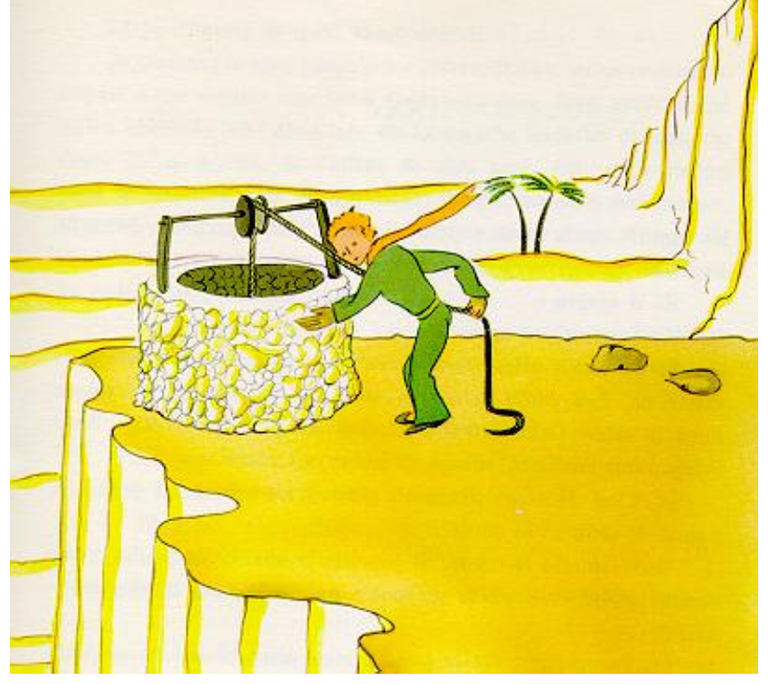
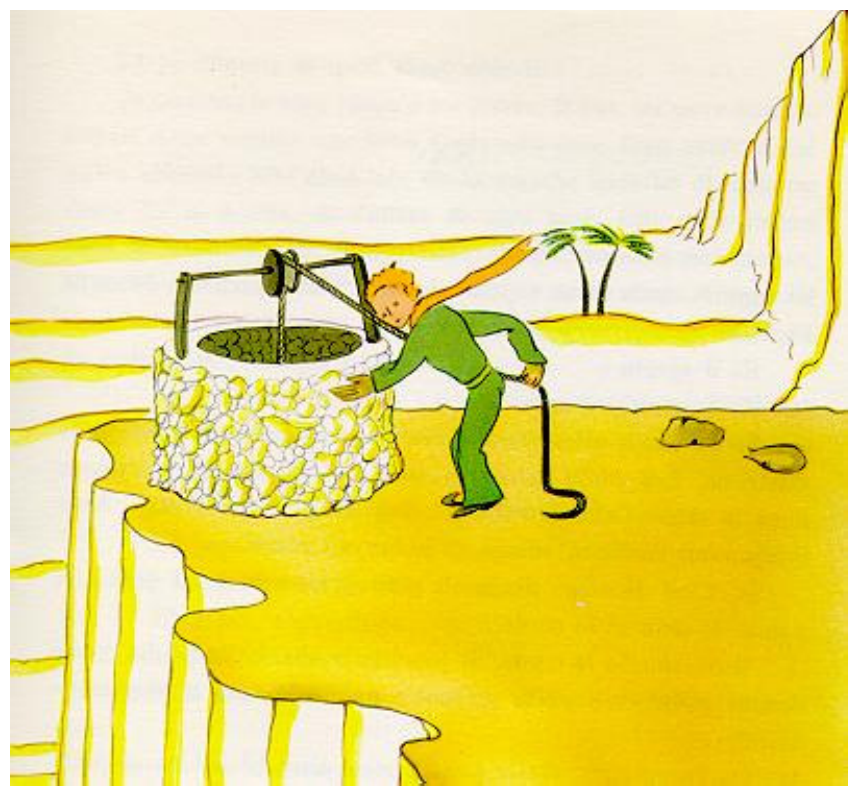
Little Prince: distinct per-scene art, add hat/elephant & box panels
Re-crop every illustration cleanly from the source PDF at 200 DPI:
- Scene 1 "Drawing Number One" now shows 3 panels: boa → hat → elephant x-ray
  (the hat was previously missing).
- Scene 3 "Sheep in the Box" now shows 2 panels: the sheep → the crate.
- Remove the 5 duplicate/overlapping images: each illustrated scene now has
  its own distinct picture.
- The 6 beats this edition has no illustration for (visitor, baobab warning,
  tears, farewell, lamplighter, switchman) become clean text-only panels;
  renderStory now omits the image plate when a scene has no art.

diff --git a/index.html b/index.html
@@ -2636,22 +2636,22 @@ const STORIES = [
       zh:"在遠離人煙千里之外的浩瀚撒哈拉沙漠中，一位機械故障迫降的飛行員，遇見了一位來自遙遠小行星的金髮小男孩。這是一段關於愛、責任與成長的永恆追尋。"
     },
     scenes:[
-      {n:"1", title:"Drawing Number One", z:"第一號畫作：巨蟒與帽子", img:"art/little-prince/scene-01.png",
+      {n:"1", title:"Drawing Number One", z:"第一號畫作：巨蟒與帽子", imgs:["art/little-prince/scene-01a.png","art/little-prince/scene-01b.png","art/little-prince/scene-01c.png"],
         en:"Once when I was six years old, I saw a magnificent picture in a book called True Stories from Nature, about the primeval forest. It was a picture of a boa constrictor in the act of swallowing an animal. I pondered deeply, then made my first colored drawing. I showed my masterpiece to the grown-ups and asked them whether the drawing frightened them. But they answered: “Why should anyone be frightened by a hat?” My drawing was not a picture of a hat; it was a boa constrictor digesting an elephant. Grown-ups always need to have things explained.",
         zh:"在我六歲的時候，曾在一本名叫《真實的故事》的書裡看過一幅精彩的插圖。那是一條大蟒蛇正在吞食獵物。我深深思索後，用彩色鉛筆畫出了我的第一號作品。我拿給大人看，問他們害不害怕。但大人們回答：「一頂帽子有什麼好怕的？」我的畫才不是帽子，而是一條正在消化大象的大蟒蛇。大人總是需要別人跟他們解釋一切。"},
       {n:"2", title:"“Draw Me a Sheep!”", z:"沙漠迫降：「請幫我畫一隻羊！」", img:"art/little-prince/scene-02.png",
         en:"Six years ago, I had an accident with my airplane in the Desert of Sahara. Something was broken in my engine, and I set myself to attempt the difficult repairs all alone, a thousand miles from any human habitation. At sunrise, I was awakened by an odd little voice. It said: “If you please—draw me a sheep!” I jumped to my feet, completely thunderstruck. And I saw a most extraordinary small person, who stood there examining me with great seriousness. He seemed neither lost, nor dying of thirst or fear in the desert.",
         zh:"六年前，我的飛機在撒哈拉沙漠發生了意外。引擎壞了，在遠離人煙千里之外的荒漠裡，我只能獨自嘗試艱難的修理。清晨太陽升起時，一個奇特的小聲音把我喚醒，他說：「請你……幫我畫一隻羊！」我猛然跳了起來，目瞪口呆。眼前站著一個極不尋常的小人兒，正用無比嚴肅的神情端詳著我。他既不像迷了路，也不像在沙漠中渴得快要死去或害怕的樣子。"},
-      {n:"3", title:"The Sheep in the Box", z:"盒子裡的綿羊", img:"art/little-prince/scene-03.png",
+      {n:"3", title:"The Sheep in the Box", z:"盒子裡的綿羊", imgs:["art/little-prince/scene-03a.png","art/little-prince/scene-03b.png"],
         en:"I drew a sheep, but he rejected it: “No, this sheep is already very sickly.” I drew another: “This is not a sheep, it has horns—it is a ram!” I drew a third: “This one is too old; I want a sheep that will live a long time.” By this time my patience was exhausted, for I was in a hurry to start taking my engine apart. So I tossed off a box with three holes and said: “This is only his box. The sheep you asked for is inside.” A light broke over his face: “That is exactly the way I wanted it! Look, he has gone to sleep...”",
         zh:"我畫了一隻羊，但他搖搖頭：「不行，這隻羊病得很重。」我又畫了一隻，他說：「這不是羊，他有角——這是公羊！」我又畫了第三隻：「這隻太老了，我要一隻能活很久的羊。」這時我失去了耐性，急著拆卸發動機，便隨手畫了一個有三個小孔的箱子，說：「這只是個盒子，你要的羊就在裡面。」小人兒的臉龐頓時亮了起來：「這正是我想要的！你看，他睡著了……」"},
-      {n:"4", title:"A Visitor from the Sky", z:"來自天空的旅人", imgs:["art/little-prince/scene-04a.png","art/little-prince/scene-04b.png"],
+      {n:"4", title:"A Visitor from the Sky", z:"來自天空的旅人",
         en:"It took me a long time to learn where he came from. When he first saw my airplane, he cried: “What! You dropped down from the sky? Which is your planet?” At that moment I caught a gleam of light in the impenetrable mystery of his presence. “Do you come from another planet?” I demanded abruptly. But he only tossed his head gently: “It is true that on that you can't have come from very far away...” And he sank into a reverie, taking the sheep from his pocket to contemplate his treasure.",
         zh:"我花了很長的時間才明白他來自哪裡。當他第一次看見我的飛機時，驚呼道：「什麼！你也是從天上掉下來的？哪一顆是你的星球？」那一刻，我在他神秘的來歷中捕捉到了一絲光芒。「難道你來自別的星球？」我急切地問。他只是輕輕搖頭：「確實，坐那種東西，你不可能從很遠的地方來……」接著他陷入沉思，從口袋拿出那張羊的畫紙，凝視著他的寶藏。"},
       {n:"5", title:"Asteroid B-612 and Figures", z:"B-612 小行星與大人的數字", img:"art/little-prince/scene-05.png",
         en:"I had learned that the planet the little prince came from was scarcely larger than a house: Asteroid B-612. If I tell you these figures, it is on account of the grown-ups and their ways. When you tell them about a new friend, they never ask: “What does his voice sound like? What games does he love best?” Instead, they demand: “How old is he? How much money does his father make?” Only from these figures do they think they have learned anything about him. Children should always show great forbearance toward grown-up people.",
         zh:"我知道了小王子居住的星球幾乎只比一棟房子大一點點：B-612 小行星。我之所以向大家提起這個編號，都是因為大人們的怪癖。當你向大人介紹一位新朋友時，他們從不問：「他的聲音聽起來怎麼樣？他最喜歡什麼遊戲？」相反地，他們總是追問：「他幾歲？他爸爸賺多少錢？」他們以為只有透過這些數字，才能了解一個人。孩子們對大人總得懷抱寬大的包容心。"},
-      {n:"6", title:"Watch Out for the Baobabs!", z:"當心猴麵包樹！", img:"art/little-prince/scene-06.png",
+      {n:"6", title:"Watch Out for the Baobabs!", z:"當心猴麵包樹！",
         en:"On the third day, I heard about the catastrophe of the baobabs. On the little prince's planet, the soil was infested with seeds of the baobab. A baobab is something you will never be able to get rid of if you attend to it too late; it bores clear through the planet with its roots and splits it in pieces. “It is a question of discipline,” the little prince said. “When you finish your morning toilet, you must attend to the toilet of your planet with the greatest care. Children, watch out for the baobabs!”",
         zh:"到了第三天，我得知了猴麵包樹的可怕災難。在小王子的星球上，泥土裡布滿了猴麵包樹的種子。這種樹如果你處理得太慢，就永遠除不掉了；它的樹根會鑽透整個星球，甚至將小星球撐得四分五裂。「這完全是自律的問題，」小王子說：「當你早上梳洗完畢，就必須極為細心地打理你的星球。孩子們，一定要當心猴麵包樹！」"},
       {n:"7", title:"The Split Planet", z:"被巨樹撕裂的星球", img:"art/little-prince/scene-07.png",
@@ -2660,7 +2660,7 @@ const STORIES = [
       {n:"8", title:"The Forty-Four Sunsets", z:"四十四次日落", img:"art/little-prince/scene-08.png",
         en:"“I am very fond of sunsets,” the little prince told me. “Come, let us go look at a sunset now.” “We must wait,” I said. “Wait for what?” “Wait until it is time.” On his tiny planet, all he needed to do was move his chair a few steps to watch twilight falling whenever he wished. “One day,” he whispered, “I saw the sunset forty-four times! You know—one loves the sunset, when one is so sad...” But when I asked if he had been so sad that day, he made no reply.",
         zh:"「我好喜歡看日落，」小王子告訴我：「走，我們現在去看日落吧。」「我們得等等，」我說。「等什麼？」「等日落的時間到來。」在他那小小的星球上，只要把椅子挪動幾步，他隨時都能看見暮色降臨。「有一天，」他輕聲說：「我看了四十四次日落！你知道嗎……當一個人感到極度憂傷時，總是特別喜歡看日落……」但當我問他那天是否真的很難過時，他卻沒有回答。"},
-      {n:"9", title:"The Secret Land of Tears", z:"神祕的眼淚之國", img:"art/little-prince/scene-09.png",
+      {n:"9", title:"The Secret Land of Tears", z:"神祕的眼淚之國",
         en:"On the fifth day, he asked if sheep eat flowers with thorns. Upset over a jammed bolt in my engine, I snapped: “Thorns are of no use at all! Flowers have thorns just for spite!” The little prince was white with rage: “If someone loves a flower, of which just one single blossom grows in all the millions of stars, it is enough to make him happy just to look at the stars! But if the sheep eats the flower, in one moment all his stars will be darkened!” He broke into sobs. I dropped my tools and took him in my arms. It is such a secret place, the land of tears.",
         zh:"第五天，他問我羊會不會吃帶刺的花。正為卡死螺栓焦頭爛額的我脫口而出：「刺一點用都沒有，那純粹是花兒的惡意！」小王子氣得臉色發白：「如果在千千萬萬顆星星之中，只有一朵獨一無二的花，那麼只要仰望星空，人就能感到無比幸福！但要是羊把那朵花吃掉了，所有的星星都會在一瞬間熄滅！」說著他泣不成聲。我扔下工具，將他緊緊抱在懷中。眼淚的國度，是多麼神祕難測啊。"},
       {n:"10", title:"The Birth of the Rose", z:"玫瑰花兒的誕生", img:"art/little-prince/scene-10.png",
@@ -2669,7 +2669,7 @@ const STORIES = [
       {n:"11", title:"Tending a Proud Heart", z:"照料嬌縱的花兒", img:"art/little-prince/scene-11.png",
         en:"The flower soon tormented him with her vanity. “Let the tigers come with their claws!” she boasted, showing her four tiny thorns. “I am not afraid of tigers, but I have a horror of drafts. Would you have a screen for me? And at night, put me under a glass globe.” The little prince fetched fresh water and sheltered her from the wind, yet her pride troubled him deeply: “I was too young to know how to love her. I ought to have judged by deeds, not words. She perfumed my planet, but I did not understand.”",
         zh:"這朵花很快就用她的虛榮折磨起他來。「讓老虎帶著爪子來吧！」她炫耀著那四根小刺說道：「我可不怕老虎，但我最怕過堂風了。你能給我一個屏風嗎？晚上還要用玻璃罩把我罩起來。」小王子打來清水、為她擋風，但她的嬌傲讓他深感困惑：「那時我太年輕了，還不懂得如何愛她。我應該看她為我做了什麼，而不是聽她說了什麼。她為我的星球帶來了芬芳，我卻沒能體會她柔弱偽裝下的深情。」"},
-      {n:"12", title:"Farewell to the Asteroid", z:"告別與啟程", img:"art/little-prince/scene-12.png",
+      {n:"12", title:"Farewell to the Asteroid", z:"告別與啟程",
         en:"For his departure, he took advantage of a migration of wild birds. He carefully cleaned out his active volcanoes and pulled up the last baobab shoots. When he watered the flower for the last time and lifted the glass globe, he was close to tears. “Goodbye,” he said. The flower answered softly: “I have been silly. I ask your forgiveness. Try to be happy... Let the glass globe be; the night air will do me good. I must endure two or three caterpillars if I wish to know the butterflies. Now go!” She did not want him to see her cry.",
         zh:"小王子藉著一群候鳥遷徙的機會踏上了旅途。出發前，他仔細疏通了兩座活火山，拔掉了最後的猴麵包樹幼芽。當他最後一次給花澆水、準備蓋上玻璃罩時，他忍不住紅了眼眶。「再見了，」他說。花兒輕柔地回答：「我以前太傻了，請你原諒我。一定要快樂起來……別蓋玻璃罩了，夜風對我有好處。要想認識蝴蝶，我就必須忍受兩三隻毛毛蟲。快走吧！」她是那樣驕傲，不願讓他看見自己的眼淚。"},
       {n:"13", title:"The King: A Reasonable Monarch", z:"國王的星球：合理的命令", img:"art/little-prince/scene-13.png",
@@ -2684,7 +2684,7 @@ const STORIES = [
       {n:"16", title:"The Businessman Counting Stars", z:"算計星星的商人", img:"art/little-prince/scene-16.png",
         en:"The fourth planet belonged to a businessman so busy adding figures he did not even look up. “Five hundred and one million glittering objects!” he said. “You mean stars?” asked the little prince. “Yes! I own them!” “And what do you do with them?” “I count them and put the number in the bank. It makes me rich!” The little prince replied: “I own a flower that I water every day, and volcanoes that I clean out. It is of some use to them that I own them. But you are of no use to the stars.”",
         zh:"第四顆星球屬於一個商人，他忙著計算數字連頭都沒抬。「五億零一百萬個發亮的東西！」「你是說星星嗎？」小王子問。「對！我擁有它們！」「你擁有星星做什麼？」「我把它們數一數，把數字存進銀行，這讓我變得富有！」小王子平靜地說：「我擁有一朵每天澆水的花，擁有每週清掃的火山。我擁有它們，對它們是有益處的。但你對星星卻一點用處也沒有。」商人啞口無言。"},
-      {n:"17", title:"The Faithful Lamplighter", z:"點燈人：忠於職守的微光", img:"art/little-prince/scene-17.png",
+      {n:"17", title:"The Faithful Lamplighter", z:"點燈人：忠於職守的微光",
         en:"The fifth planet was tiny, with room only for a street lamp and a lamplighter. Every minute, the planet turned completely, and the man had to light the lamp and put it out without a single second of rest. “Those are the orders,” he sighed. Yet the little prince respected him: “He would be scorned by the king and the businessman, but he is the only one who does not seem ridiculous to me—because he is thinking of something else besides himself. When he lights his lamp, it is as if he brought one more star to life.”",
         zh:"第五顆小星球只容得下一盞路燈和一個點燈人。行星每分鐘自轉一圈，點燈人必須毫不停歇地一會兒點亮、一會兒熄滅。「這就是命令，」他嘆氣道。但小王子卻由衷敬佩他：「國王與商人或許會嘲笑他，但在我看來，他是唯一不荒謬的人——因為他所關心的不是他自己。當他點亮路燈時，彷彿就讓天空中多綻放了一顆星星或一朵花。」"},
       {n:"18", title:"The Geographer: Flowers are Ephemeral", z:"地理學家：短暫綻放的美", img:"art/little-prince/scene-18.png",
@@ -2705,7 +2705,7 @@ const STORIES = [
       {n:"23", title:"What is Essential is Invisible to the Eye", z:"狐狸的秘密：用心才能看清", img:"art/little-prince/scene-23.png",
         en:"The little prince tamed the fox with patience. When parting came, the fox sent him back to the roses: “You are not at all like my rose,” the boy told the five thousand blossoms. “You are beautiful, but you are empty. My rose is the one I watered, sheltered, and listened to. She is my rose.” Returning to the fox, the fox whispered his parting gift: “Here is my secret, a very simple secret: It is only with the heart that one can see rightly; what is essential is invisible to the eye. It is the time you have wasted for your rose that makes your rose so important.”",
         zh:"小王子用無比的耐心馴服了狐狸。離別時，狐狸讓他再去看看那些玫瑰。「你們一點也不像我的玫瑰，」他對五千朵花說道：「你們很美麗，但你們是空虛的。我的玫瑰是我親手澆水、呵護並傾聽的花。她是屬於我的玫瑰。」回到狐狸身邊時，狐狸送給他臨別的秘密：「這是一個非常簡單的秘密：只有用心才能看清真相；真正重要的人事物，用肉眼是看不見的。正是你為你的玫瑰花所付出的時間，才使她變得如此重要。」"},
-      {n:"24", title:"The Switchman and the Clock", z:"扳道工與匆忙的世界", img:"art/little-prince/scene-24.png",
+      {n:"24", title:"The Switchman and the Clock", z:"扳道工與匆忙的世界",
         en:"Later, the little prince met a railway switchman sorting travelers on thunderous trains. “What are they looking for?” asked the boy. “Not even the engineer knows,” replied the switchman. “No one is ever satisfied where he is. Only the children flatten their noses against the glass; only children know what they are looking for.” Next he met a merchant selling pills to quench thirst: “They save fifty-three minutes a week!” The little prince thought: “If I had fifty-three minutes to spend, I would walk at my leisure toward a spring of fresh water.”",
         zh:"小王子後來遇見了一位調度疾駛列車的鐵路扳道工。「火車上的人在尋找什麼？」男孩問。「連火車司機都不知道，」扳道工回答：「沒有人對自己所在的地方感到滿意。只有孩子會把鼻子貼在車窗上看；只有孩子清楚自己想要什麼。」隨後他又遇見賣止渴藥丸的商人：「這每週可以省下五十三分鐘！」「如果我有五十三分鐘的閒暇，」小王子心想：「我會慢悠悠地走向一泓清涼甘甜的泉水。」"},
       {n:"25", title:"The Singing Well", z:"沙漠裡歌唱的水井", img:"art/little-prince/scene-25.png",
@@ -4606,9 +4606,9 @@ function renderStory(id){
           <button class="sb-lang-sc-btn" title="切換中/英文顯示" onclick="sbToggleSceneLang(this,${idx+1})">中/EN</button>
         </div>
       </div>
-      <div class="sb-plate ${(sc.img||sc.imgs) ? 'sb-plate-pb' : ''}${sc.imgs&&sc.imgs.length>1?' sb-plate-imgs':''}">
+      ${(sc.img||sc.imgs||sc.svg) ? `<div class="sb-plate ${(sc.img||sc.imgs) ? 'sb-plate-pb' : ''}${sc.imgs&&sc.imgs.length>1?' sb-plate-imgs':''}">
         ${sc.imgs ? sc.imgs.map(src=>`<img src="${src}" alt="${sc.title}" decoding="async">`).join('') : (sc.img ? `<img src="${sc.img}" alt="${sc.title}" decoding="async">` : sc.svg)}
-      </div>
+      </div>` : ''}
       <div class="sb-tale">
         <p class="en">${sbGlossify(sc.en, gmap)}</p>
         <p class="zh">${sc.zh}</p>

diff --git a/sw.js b/sw.js
@@ -1,5 +1,5 @@
 /* English Cat Island — service worker (offline + installable PWA) */
-const CACHE = "eci-v56-present-quiz";
+const CACHE = "eci-v57-lp-art";
 const SHELL = [
   "./",
   "./index.html",
